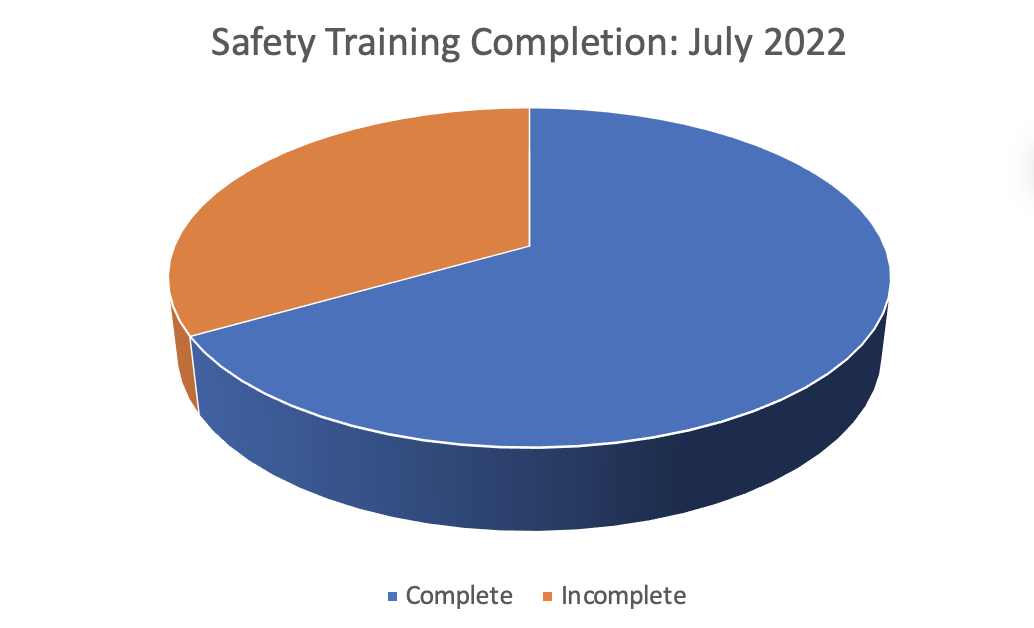
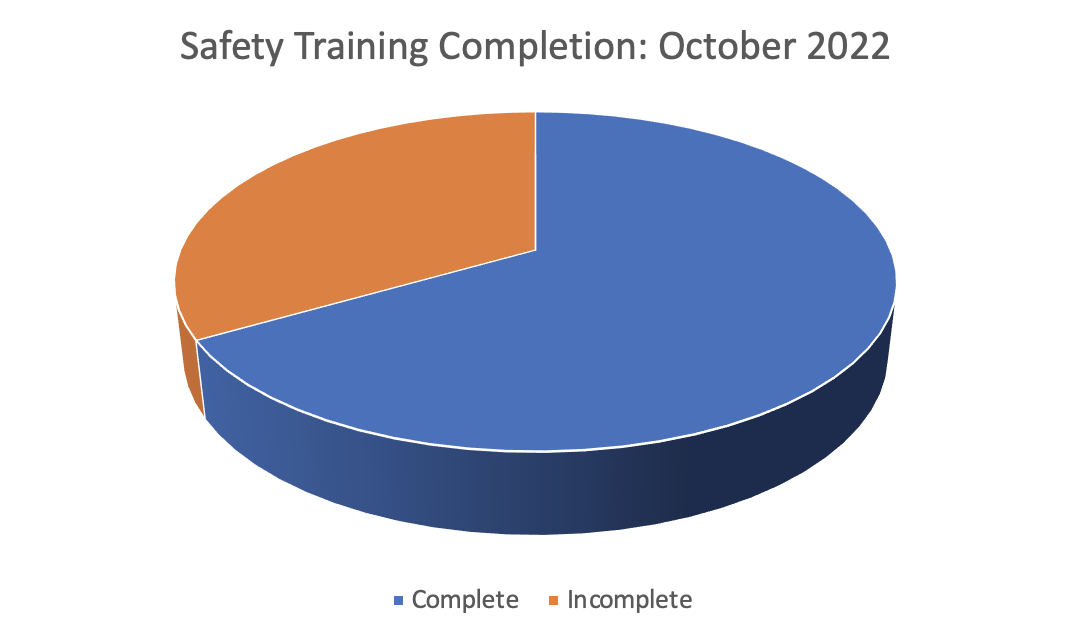
Add files via upload

diff --git a/pages/pdfreport.html b/pages/pdfreport.html
@@ -1,0 +1,29 @@
+<!DOCTYPE html>
+<html>
+    <head>
+    <title>Ardent Mills Demo Website</title>
+    <link rel="stylesheet" type="text/css" href="../css/styles.css">
+    <link rel="stylesheet" type="text/css" href="../css/reset.css">
+    </head>
+    <header>
+    <div class="navbar"> 
+      <h1><img id="bannering" src="../images//ardentmillslogo.png"></h1>
+      <a href="../pages/employeeHome.html">Home</a>
+      <a href="../pages/quiz.html">Quizzes</a>
+      <a href="../pages/reports.html">Reports</a>
+      <a href="../index.html">Sign Out</a>
+    </div>
+        
+    </header>
+    <body bgcolor=#FFFFFF>
+		
+		<div style = "font-size: 30px">
+			<img id="box" src="../images/report1.png">
+			<img id="box" src="../images/report2.png">
+			<img id="box" src="../images/report3.png">
+			<img id="box" src="../images/report4.png">
+			<img id="box" src="../images/report5.png">
+			
+		</div>
+	</body>
+</html>

diff --git a/pages/reports.html b/pages/reports.html
@@ -19,7 +19,7 @@
 		
 		
 		<p align="left" style="font-size: 30px">
-			<br><br>There are 6 days left in the month of July and 12 people at your facility have not taken their required trainings.<br><br>
+			<br><br>There are 6 days left in the month of October and 12 people at your facility have not taken their required trainings.<br><br>
 		</p>
 		<div style = "font-size: 30px">
 			<img id="box" src="../images/piechart.png">
@@ -31,7 +31,7 @@
 		</div>
 		
 		<div align="center" style="font-size: 30px">
-			October's Safety Training Completion Report
+			October's Safety Training Completion Report: <a href="../pages/pdfreport.html">October's Report</a>
 			<br><br><br>
 		</div>
 		

diff --git a/pages/addition.html b/pages/addition.html
@@ -39,7 +39,8 @@
 			</div>
 			
 			<div class="container" style="background-color:#f1f1f1">
-				<br><br><button type="button" class="cancelbtn">Submit</button>
+				<br><br>
+				<a href="../pages/reports.html">Submit</a>
 			</div>
 		</form>
 	</body>
